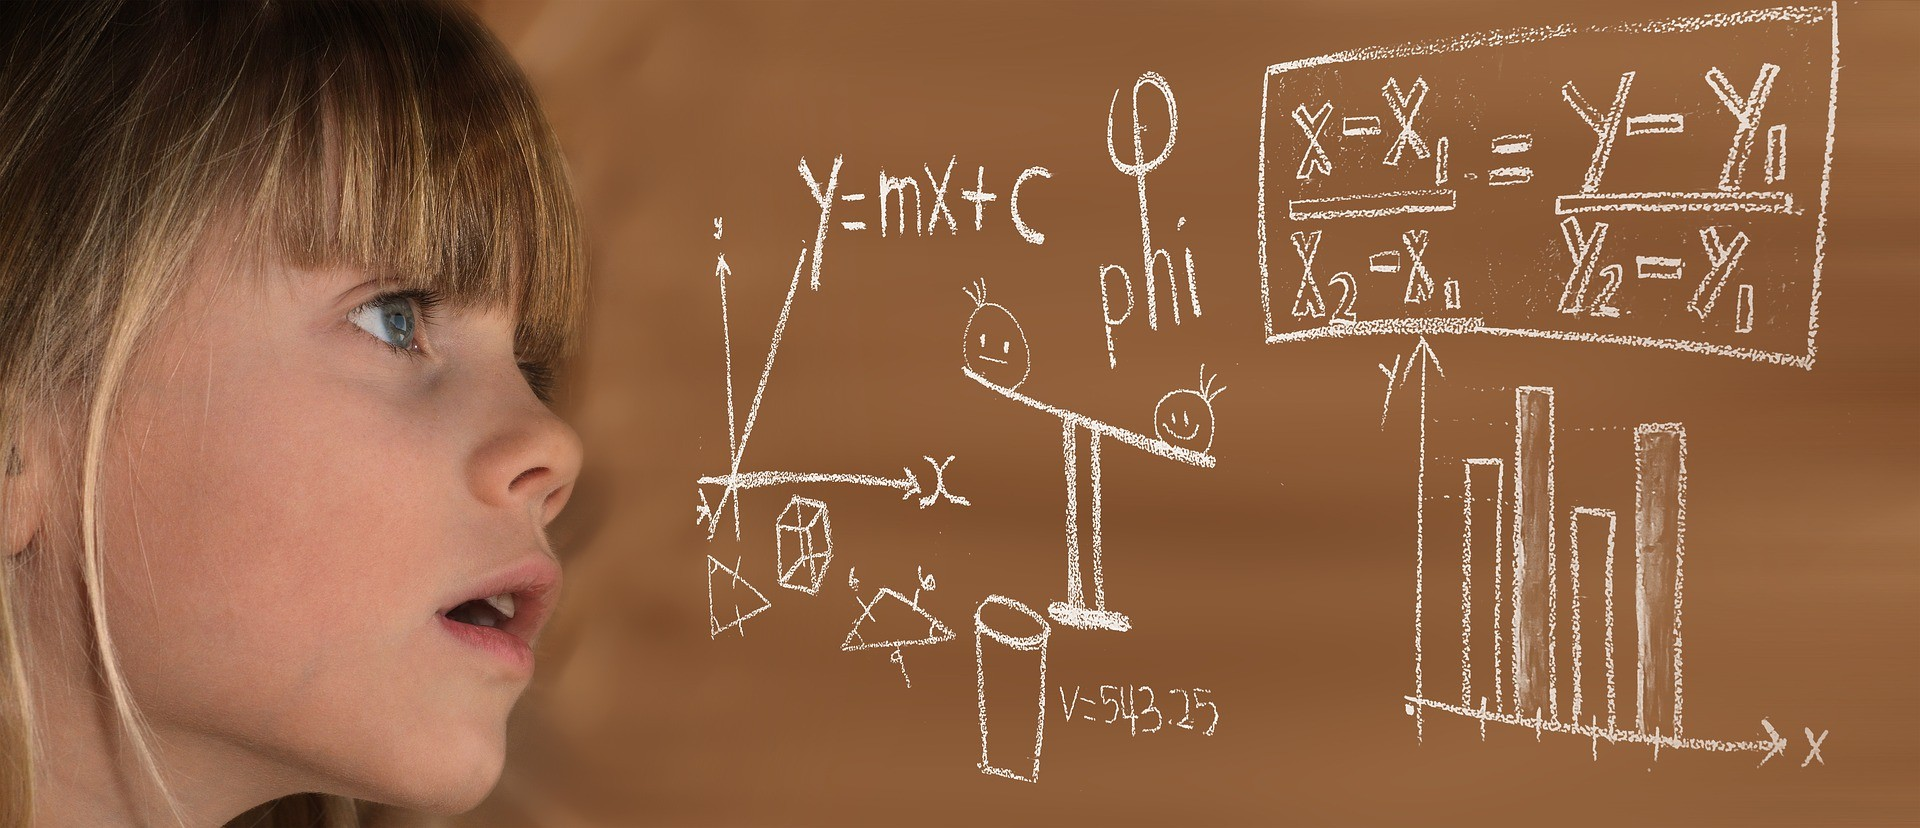
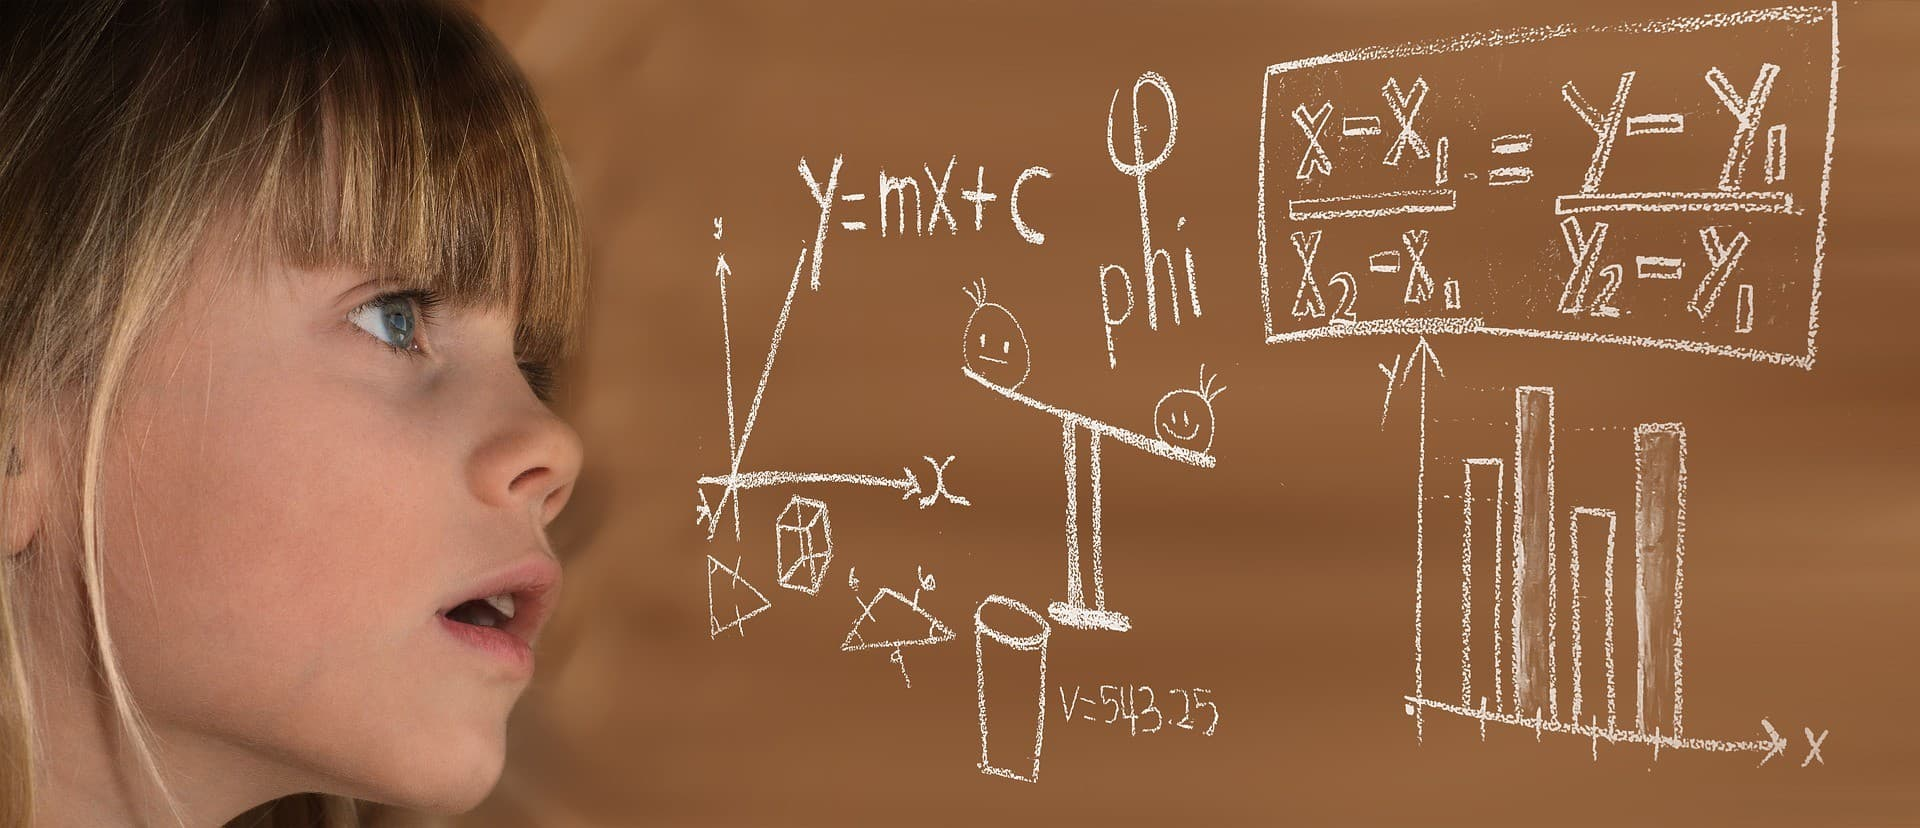
Styled footer and compressed images
compressed all images and styled footer - not done

diff --git a/index.html b/index.html
@@ -83,22 +83,20 @@
         <footer>
             <h5>Community Science Museum</h5>
             <section class="footer-content">
-                <div class="footer-open-info">
+                <div class="footer-info">
                     <h6>Opening Hours</h6>
-                    <p> Monday: Closed
-                        Tuesday: 10:00 – 16:00
-                        Wednesday: 10:00 – 16:00
-                        Thursday: 10:00 – 16:00
-                        Friday: 10:00 – 19:0
-                        Saturday: 9:00 – 16:00
-                        Sunday: 9:00 – 13:00
-                    </p>
+                    <p> Monday: Closed</p>
+                    <p> Tuesday: 10:00 – 16:00</p>
+                    <p> Wednesday: 10:00 – 16:00</p>
+                    <p> Thursday: 10:00 – 16:00</p>
+                    <p> Friday: 10:00 – 19:0</p>
+                    <p> Saturday: 9:00 – 16:00</p>
+                    <p> Sunday: 9:00 – 13:00</p>
                 </div>
-                <div class="footer-contact-info">
+                <div class="footer-info">
                     <h6>Visiting Adresse</h6>
-                    <p>Rådhusgata 6
-                        7130 Brekstad
-                    </p>
+                    <p>Rådhusgata 6</p>
+                    <p>7130 Brekstad</p>
                     <h6>Phonenumber</h6>
                     <p>+47 923 32 696</p>
                 </div>

diff --git a/activities-page.html b/activities-page.html
@@ -29,7 +29,7 @@
         <footer>
             <h5>Community Science Museum</h5>
             <section class="footer-content">
-                <div class="footer-open-info">
+                <div class="footer-info">
                     <h6>Opening Hours</h6>
                     <p> Monday: Closed
                         Tuesday: 10:00 – 16:00
@@ -40,7 +40,7 @@
                         Sunday: 9:00 – 13:00
                     </p>
                 </div>
-                <div class="footer-contact-info">
+                <div class="footer-info">
                     <h6>Visiting Adresse</h6>
                     <p>Rådhusgata 6
                         7130 Brekstad

diff --git a/contact-page.html b/contact-page.html
@@ -29,7 +29,7 @@
         <footer>
             <h5>Community Science Museum</h5>
             <section class="footer-content">
-                <div class="footer-open-info">
+                <div class="footer-info">
                     <h6>Opening Hours</h6>
                     <p> Monday: Closed
                         Tuesday: 10:00 – 16:00
@@ -40,7 +40,7 @@
                         Sunday: 9:00 – 13:00
                     </p>
                 </div>
-                <div class="footer-contact-info">
+                <div class="footer-info">
                     <h6>Visiting Adresse</h6>
                     <p>Rådhusgata 6
                         7130 Brekstad

diff --git a/exhibitions-page.html b/exhibitions-page.html
@@ -29,7 +29,7 @@
         <footer>
             <h5>Community Science Museum</h5>
             <section class="footer-content">
-                <div class="footer-open-info">
+                <div class="footer-info">
                     <h6>Opening Hours</h6>
                     <p> Monday: Closed
                         Tuesday: 10:00 – 16:00
@@ -40,7 +40,7 @@
                         Sunday: 9:00 – 13:00
                     </p>
                 </div>
-                <div class="footer-contact-info">
+                <div class="footer-info">
                     <h6>Visiting Adresse</h6>
                     <p>Rådhusgata 6
                         7130 Brekstad

diff --git a/get-involved-page.html b/get-involved-page.html
@@ -29,7 +29,7 @@
         <footer>
             <h5>Community Science Museum</h5>
             <section class="footer-content">
-                <div class="footer-open-info">
+                <div class="footer-info">
                     <h6>Opening Hours</h6>
                     <p> Monday: Closed
                         Tuesday: 10:00 – 16:00
@@ -40,7 +40,7 @@
                         Sunday: 9:00 – 13:00
                     </p>
                 </div>
-                <div class="footer-contact-info">
+                <div class="footer-info">
                     <h6>Visiting Adresse</h6>
                     <p>Rådhusgata 6
                         7130 Brekstad

diff --git a/visit-page.html b/visit-page.html
@@ -29,7 +29,7 @@
         <footer>
             <h5>Community Science Museum</h5>
             <section class="footer-content">
-                <div class="footer-open-info">
+                <div class="footer-info">
                     <h6>Opening Hours</h6>
                     <p> Monday: Closed
                         Tuesday: 10:00 – 16:00
@@ -40,7 +40,7 @@
                         Sunday: 9:00 – 13:00
                     </p>
                 </div>
-                <div class="footer-contact-info">
+                <div class="footer-info">
                     <h6>Visiting Adresse</h6>
                     <p>Rådhusgata 6
                         7130 Brekstad

diff --git a/style.css b/style.css
@@ -54,6 +54,18 @@ footer {
     align-items: center;
 }
 
+.footer-content {
+    display: flex;
+    flex-direction: row;
+}
+
+.footer-info {
+    display: flex;
+    flex-direction: column;
+    flex: 1;
+    flex-wrap: wrap;
+}
+
 h1 {
     width: 100%;
     font-family: 'Zilla Slab';
@@ -95,13 +107,14 @@ h6 {
     font-family: 'Fira Sans';
     font-weight: 600;
     font-size: 24px;
-    margin: o;
+    margin: 0;
 }
 
 p {
     font-family: 'Nunito Sans';
     font-weight: 400;
     font-size: 20px;
+    margin: 0;
 }
 
 .cta-button {
